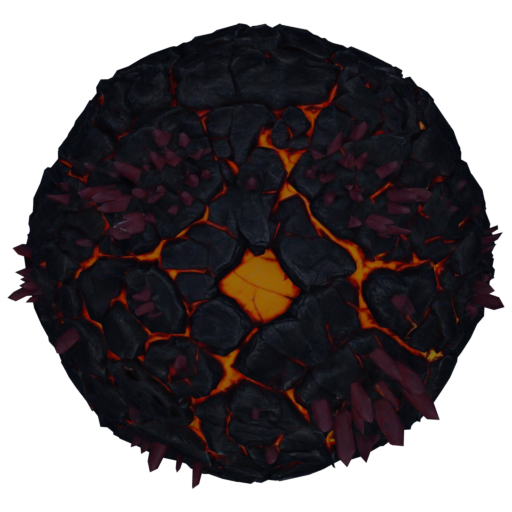
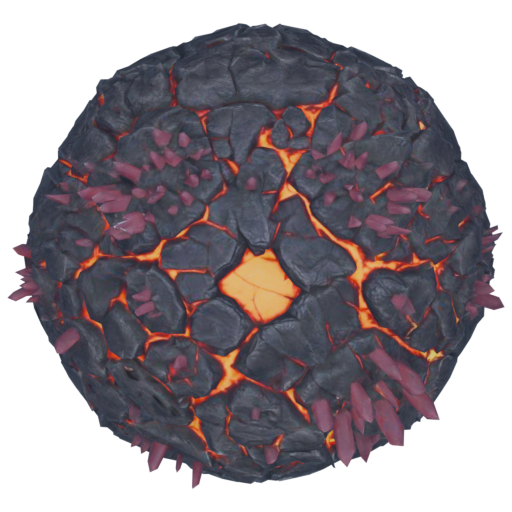
Las parejas del horno vuelven a la luz del mundo
El bloque `luz` queda documentado como mecanismo sin usuarios, con lo
aprendido del barrido: el halo sube cuanta menos luz exterior, y el horno
espeja el sol del bicho por su factor axial.

diff --git a/README.md b/README.md
@@ -532,8 +532,8 @@ vez de en toda la superficie.
 | `CUERNO_DESDE` | 0,13 | 0,12 | **0 — sin cuernos** | 0 — solo raíz |
 | `GLOW_NUCLEO` | 0,09 | **0,22** | 0,09 | 0,09 |
 | `GLOW_UMBRAL` | 0,25 | 0,25 | 0,25 | **0,05** |
-| `GLOW_RADIO` / `GLOW_FUERZA` | 0,06 / 1,8 | **0,09 / 3,8** | 0,06 / 1,8 | **0,20 / 1,75** |
-| `HORNO_SOL` / `HORNO_AMBIENTE` | **0,675 / 0,325 — luz 50 %** | 1,0 / 0,45 | 1,6 / 0,65 | **0,32 / 0,13 — luz 20 %** |
+| `GLOW_RADIO` / `GLOW_FUERZA` | 0,06 / 1,8 | **0,09 / 3,8** | 0,06 / 1,8 | **0,20 / 0,9** |
+| `HORNO_SOL` / `HORNO_AMBIENTE` | 1,35 / 0,65 | 1,0 / 0,45 | 1,6 / 0,65 | 1,6 / 0,65 |
 | ganancia de emisión | 1,0 | 1,0 | 1,0 | **2,0** |
 | emisión derivada | 38-47 % de la textura | 16,5 % | 5,4 % real (ver abajo) | grietas + núcleo, p99 0,54 |
 | `cuernos_grados` (cliente) | 14 | **0 — no se lee** | — | — |
@@ -586,13 +586,13 @@ Cómo se sacó cada uno:
   seis vistas confirman el cráter al alto sin girar nada. El resto
   de su intensidad vive en el JSON: suelo del pulso en 1,2 (la lava no se apaga),
   el pase de `lava` que viaja (solo de alta), y desde ago-2026 el bloque **`luz`**
-  — la excepción por bicho a la luz del mundo: el Skarnox va al **20 %** del
-  mundo (sol 0,20, ambiente 0,13) para leerse autoiluminado — el barrido fue
-  1,0 → 0,5 → 0,25 → 0,15 → 0,20, con 0/0 probado y descartado. El horno lo
-  espeja (sol 0,32 = 0,20 × 1,6 axial, ambiente igual) y con la base oscura el
-  halo sube a **1,75**: el derrame del glow pesa más cuanto menos luz exterior
-  hay. Media 0,326 contra 0,322 de alta. El bloque ya lo usan también el Vexor
-  (50 %: las vetas rojas ganan protagonismo) y la Phoenix (65 %).
+  — la excepción por bicho a la luz del mundo: existe el bloque **`luz`**
+  del JSON — la excepción por bicho a la luz del mundo, hoy SIN USUARIOS: se
+  barrió en el Skarnox (0/0 → 0,15 → 0,20 → 0,25 → 0,50), el Vexor (50 %) y la
+  Phoenix (65 %) y se decidió volver al mundo para todos. Si se retoma: el horno
+  espeja la luz del bicho (sol × su factor axial), el halo SUBE cuanta menos luz
+  exterior haya (el derrame del glow pesa más sobre base oscura), y el bicho se
+  mira junto a un vecino normal.
 
 ### Naves: los anclajes de motores y cañones
 
@@ -643,12 +643,12 @@ Calibrado por bicho contra `medir_emision.tscn` (media / alta, al pico del pulso
 
 | | `HORNO_SOL` | `HORNO_AMBIENTE` | media | alta |
 |---|---|---|---|---|
-| Vexor (luz 50 %) | 0,675 | 0,325 | 0,366 | 0,384 |
+| Vexor | 1,35 | 0,65 | 0,479 | 0,459 |
 | Vex | 1,0 | 0,45 | 0,276 | 0,286 |
 | Vorax | 1,0 | 0,55 | 0,243 | 0,236 |
 | Ferox | 1,6 | 0,65 | 0,631 | 0,600 |
-| Skarnox (luz 20 %) | 0,32 | 0,13 | 0,326 | 0,322 |
-| Phoenix (luz 65 %) | 1,04 | 0,227 | 0,228 | 0,228 |
+| Skarnox | 1,6 | 0,65 | 0,450 | 0,450 |
+| Phoenix | 1,6 | **0,35** | 0,301 | 0,288 |
 
 **Para un metal el ambiente va al revés que antes.** Un metal casi no tiene
 difuso: devuelve lo que hay alrededor. En la era del fondo gris-0,05 la Phoenix
